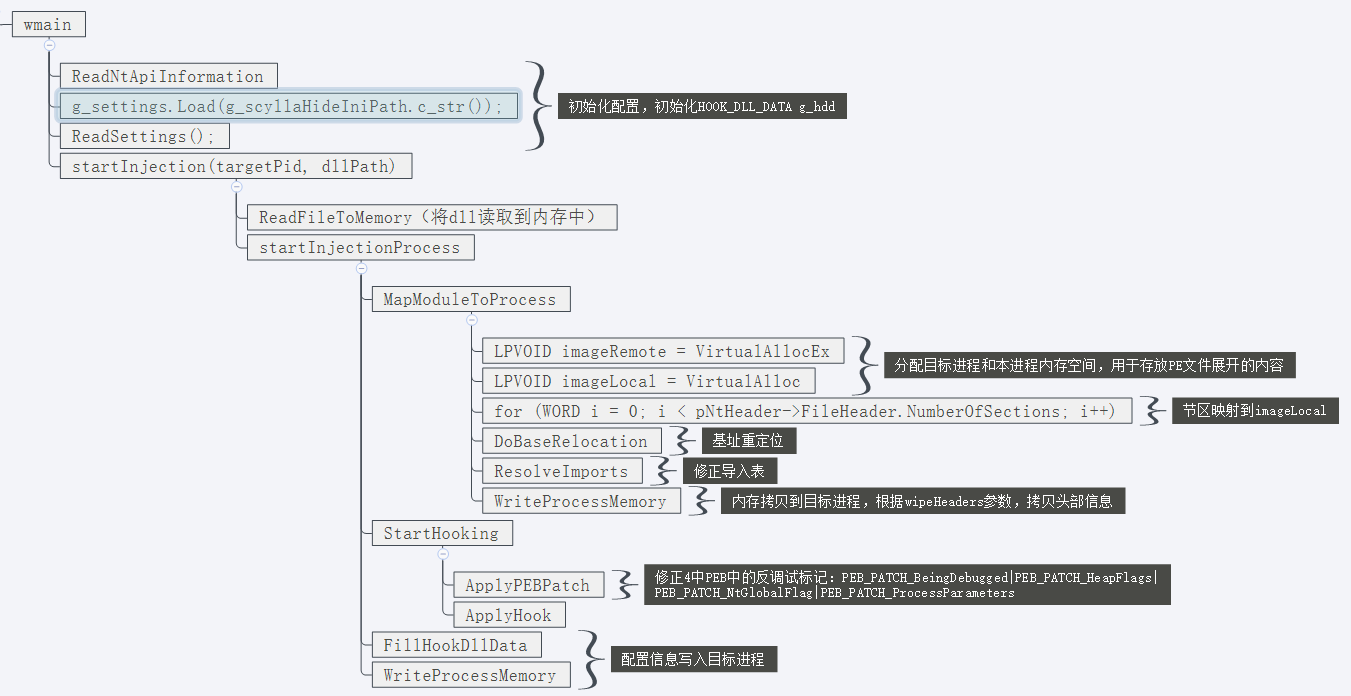
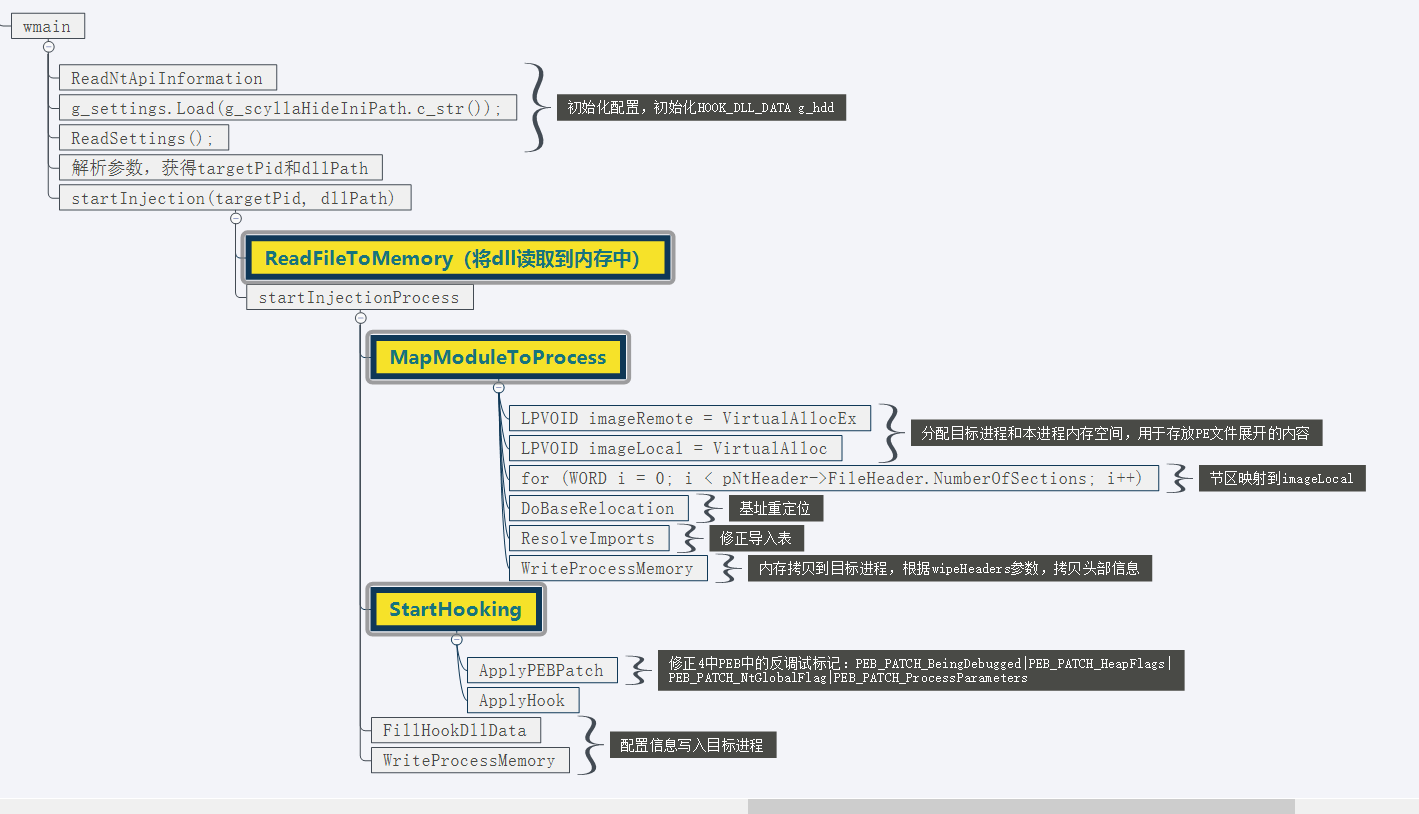
【01 项目概览】、【02 InjectorCLI源码分析】内容补全

Changed region(s): [[0.0, 0.0, 0.9948, 1.0]]

diff --git a/course/ScyllaHide/02 InjectorCLI源码分析.md b/course/ScyllaHide/02 InjectorCLI源码分析.md
@@ -1,13 +1,78 @@
 # InjectorCLI源码分析
+从项目名字，我们可以看出，该项目是注入功能的命令行程序。它实现了HookLibrary.dll的命令行注入，并启动反调试功能。
 
-## 项目依赖关系
-Scylla项目不算复杂，项目间的依赖关系也很简单。基础库依赖于底层库，其他所有可执行文件项目依赖于基础库，具体描述如下所示：
+面对一个开源的、强大的反调试工程，我做了几个简单的测试：
 
-	底层库：distorm.lib（反汇编引擎）
-	基础库：Scylla.lib（Scylla通用库）
-	可执行文件：其他所有可执行文件项目
+1. 执行命令：“InjectorCLIx86.exe MyTestAntiDebuger.exe HookLibraryx86.dll”，将HookLibraryx86.dll注入MyTestAntiDebuger.exe进程，完成反调试测试环境搭建。
+2. 使用procexp.exe查看进程MyTestAntiDebuger.exe的dll，我们并没有发现HookLibraryx86.dll，猜测InjectorCLI含有自加载dll的功能。
+3. 使用PCHunter检测MyTestAntiDebuger.exe进程发现只hook了下面地址：
+
+   7781EA50  - FF25 28B28B77   jmp     dword ptr [Wow64Transition]      ; wow64cpu.77737000
+
+   那么问题来了，这一个hook如何实现各种反调试及时呢？
+
+4. InjectorCLIx86.exe 能实现隐藏dll的注入，尝试注入其它dll（自己随便写了个MessageBox的dll）岂不是一个很好的反检测功能？然而尝试结果是，直接崩溃了。为什么呢？？？
+
+带着这些问题，我们继续走下去
+
+## 章节目标
+- 了解InjectorCLI整体函数调用关系
+- 了解InjectorCLI注入原理（需要有PE文件基础），限制条件。
+- InjectorCLIx86.exe为何不能注入其它dll
+- 注入后如何实现反调试
 
 ## 源码分析
-先上一张总的函数调用图，如下：
+先上一张总的函数调用图：
 
 ![InjectorCLI源码分析总图](https://ninecents.github.io/course/ScyllaHide/02%20InjectorCLI源码分析/InjectorCLI源码分析总图.png)
+
+### wmain分析
+wmain做的三件事儿：
+
+1. 初始化配置，初始化HOOK_DLL_DATA g_hdd
+2. 解析参数，获得targetPid和dllPath
+3. startInjection(targetPid, dllPath)
+
+初始化配置，包含scylla_hide.ini和NtApiCollection.ini，都是基于Windows ini相关api进行操作的。
+
+scylla_hide.ini先通过Section[SETTINGS]的键CurrentProfile的值获得配置类型。
+
+    [SETTINGS]
+    CurrentProfile=VMProtect x86/x64
+    [VMProtect x86/x64]
+    BlockInputHook=0
+    DLLNormal=1
+    ...
+    [Obsidium x86]
+    BlockInputHook=0
+    DLLNormal=1
+    DLLStealth=0
+    ... 
+
+比如上面的配置，程序将读取Section[VMProtect x86/x64]中所有的键值作为配置项。
+
+### startInjection做的三件事（黄色底色的内容）
+1. ReadFileToMemory（将dll读取到内存中）
+2. MapModuleToProcess（dll注入到目标进程）
+3. StartHooking（执行反调试逻辑）
+
+MapModuleToProcess的逻辑是本章的重点，代码量并不多，不过需要扎实的PE知识（可以通过WIndows PE权威指南获得相关知识，很全面）。该函数主要有4个步骤，如下：
+1. 节区映射到imageLocal
+2. 基址重定位
+3. 修正导入表
+4. 内存拷贝到目标进程，根据wipeHeaders参数，拷贝头部信息
+
+通过MapModuleToProcess将dll映射到目标进程，但是并未在目标进程执行任何代码；而StartHooking将dll变成了有意义的任务（反调试）该内容将在下节进行阐述。
+为了分析方便，我将Scylla隐藏注入相关代码提了出来，上传到了 [github](https://github.com/ninecents/MyOpen.git) 上，有兴趣的可以去看下。
+
+## 问题回顾
+现在回过头看下文章开头的问题。
+
+### 问题一：了解InjectorCLI注入原理（需要有PE文件基础），限制条件。
+Scylla的dll注入对PE文件进行了重定位，是否适用于所有的dll呢，从代码中我们可以发现，还有很多PE相关的结构未处理，如IMAGE_DIRECTORY_ENTRY_TLS、IMAGE_DIRECTORY_ENTRY_DELAY_IMPORT等，也就是说，这样的dll，注入后会出现异常情况的。（这些未做验证，如有问题，请各路大神指正）
+
+### 问题二：InjectorCLIx86.exe为何不能注入其它dll
+这个其实调试一下就会发现程序崩溃在StartHooking函数中了，该函数对特定的dll导出项（HookData）进行了检测和内存操作，所以崩溃了。看源码之前，一直以为自己使用错了InjectorCLIx86.exe，各种查资料，其实最真实的资料就是源码，一行行代码比什么都直接。
+
+### 问题三：注入后如何实现反调试
+这个下节再议，新年快乐。

diff --git a/course/ScyllaHide/00 简单介绍和使用.md b/course/ScyllaHide/00 简单介绍和使用.md
@@ -4,7 +4,7 @@
 ScyllaHide是最近才半年开始用的，当时想写一个反调试的功能，经过一番搜索，发现这款开源神器，不敢独享，特将之分享出来，真的很好用。
 这篇文章准备从ScyllaHide的使用开始介绍，之后通过一些反调试的例子，分析ScyllaHide源码，了解反调试和反反调试相关的功能。
 
-# ScyllaHide介绍
+## ScyllaHide介绍
 
 ### 源码地址：
 [https://github.com/x64dbg/ScyllaHide](https://github.com/x64dbg/ScyllaHide)
@@ -18,17 +18,17 @@ ScyllaHide支持带插件的各种调试器：
 - [x64dbg](https://github.com/x64dbg/x64dbg)
 - [Hex-Rays IDA](https://www.hex-rays.com/products/ida)
 - [TitanEnginev2](https://bitbucket.org/titanengineupdate/titanengine-update)
-  或http://www.reversinglabs.com/open-source/titanengine.html
+  或[TitanEnginev2](http://www.reversinglabs.com/open-source/titanengine.html)
 
 PE x64调试完全支持x64dbg和IDA的插件。 请注意：ScyllaHide不仅限于这些调试器。
 您可以使用ScyllaHide的 ***独立命令行版本*** 。
 
 您可以在任何调试器调试的任何进程中注入ScyllaHide。
 
-# ScyllaHide使用
-## 基础支持
+## ScyllaHide使用
+### 基础支持
 OD的简单使用
-## 准备工作
+### 准备工作
 
 | 准备项目 | 描述 | 备注 |
 | ------------- | ------------- | ------------- |
@@ -40,20 +40,20 @@ OD的简单使用
 | HookLibraryx86.dll        |  反反调试部分功能实现dll    |   -   |
 | ScyllaHideOlly2Plugin.dll        |  OD插件    |   -   |
 
-## 测试一：反调试函数效果测试
+### 测试一：反调试函数效果测试
 1. 正常运行测试程序
 2. OD调试后结果打印对比
 
 ![反调试函数效果测试](http://ninecents.github.io/course/ScyllaHide/00%20简单介绍和使用/反调试函数效果测试.png)
 
-## 测试二：ScyllaHide注入工具反调试
+### 测试二：ScyllaHide注入工具反调试
 1. 正常运行测试程序
 2. 无插件OD附加调试，发现IsDebuggerPresent检测到调试器。
 3. 执行命令行反调试命令：InjectorCLIx86.exe MyTestAntiDebuger.exe HookLibraryx86.dll。IsDebuggerPresent返回值变为0。
 ps: 如果进程名相同的程序很多，比如chrome.exe，通过下面的命令执行：
 InjectorCLIx86.exe pid:1024 HookLibraryx86.dll
 
-## 测试三：OD插件形式反调试
+### 测试三：OD插件形式反调试
 1. 将HookLibraryx86.dll、ScyllaHideOlly2Plugin.dll、scylla_hide.ini、NtApiCollection.ini（自行生成，没有的话会报错，忽略错误也可以正常运行）添加到OD插件目录中
 2. OD打开MyTestAntiDebuger.exe进程进行调试，发现IsDebuggerPresent未能检测到调试器。效果如下图所示：
 

diff --git a/course/ScyllaHide/01 项目概览.md b/course/ScyllaHide/01 项目概览.md
@@ -1,12 +1,22 @@
 # 项目概览
 
-## 项目依赖关系
-Scylla项目不算复杂，项目间的依赖关系也很简单。基础库依赖于底层库，其他所有可执行文件项目依赖于基础库，具体描述如下所示：
 
-	底层库：distorm.lib（反汇编引擎）
+## 项目依赖关系
+Scylla项目不算复杂，项目间的依赖关系也很简单。可以分为下面三层：
+
+	底层库/第三方库：distorm.lib（反汇编引擎）
 	基础库：Scylla.lib（Scylla通用库）
 	可执行文件：其他所有可执行文件项目
 
+基础库依赖于底层库，其他所有可执行文件项目依赖于基础库。
+
 ## 项目分类
+Scylla有12个项目，具体项目描述如下图所示：
 
 ![Scylla项目分类](https://ninecents.github.io/course/ScyllaHide/01%20项目概览/Scylla项目分类.png)
+
+图例：灰色项目为lib，黄色为exe，蓝底为dll。
+
+从图中，我们可以看到，7个项目跟插件有关，1个反汇编引擎distorm.lib，1个测试程序，PDBReader.exe是生成配置的工具。
+
+除此之外就是Scylla.lib、InjectorCLI.exe和HookLibray.dll（红旗标记的项目）。这三个是Scylla核心实现，也就是我们需要特别关注的项目了。
